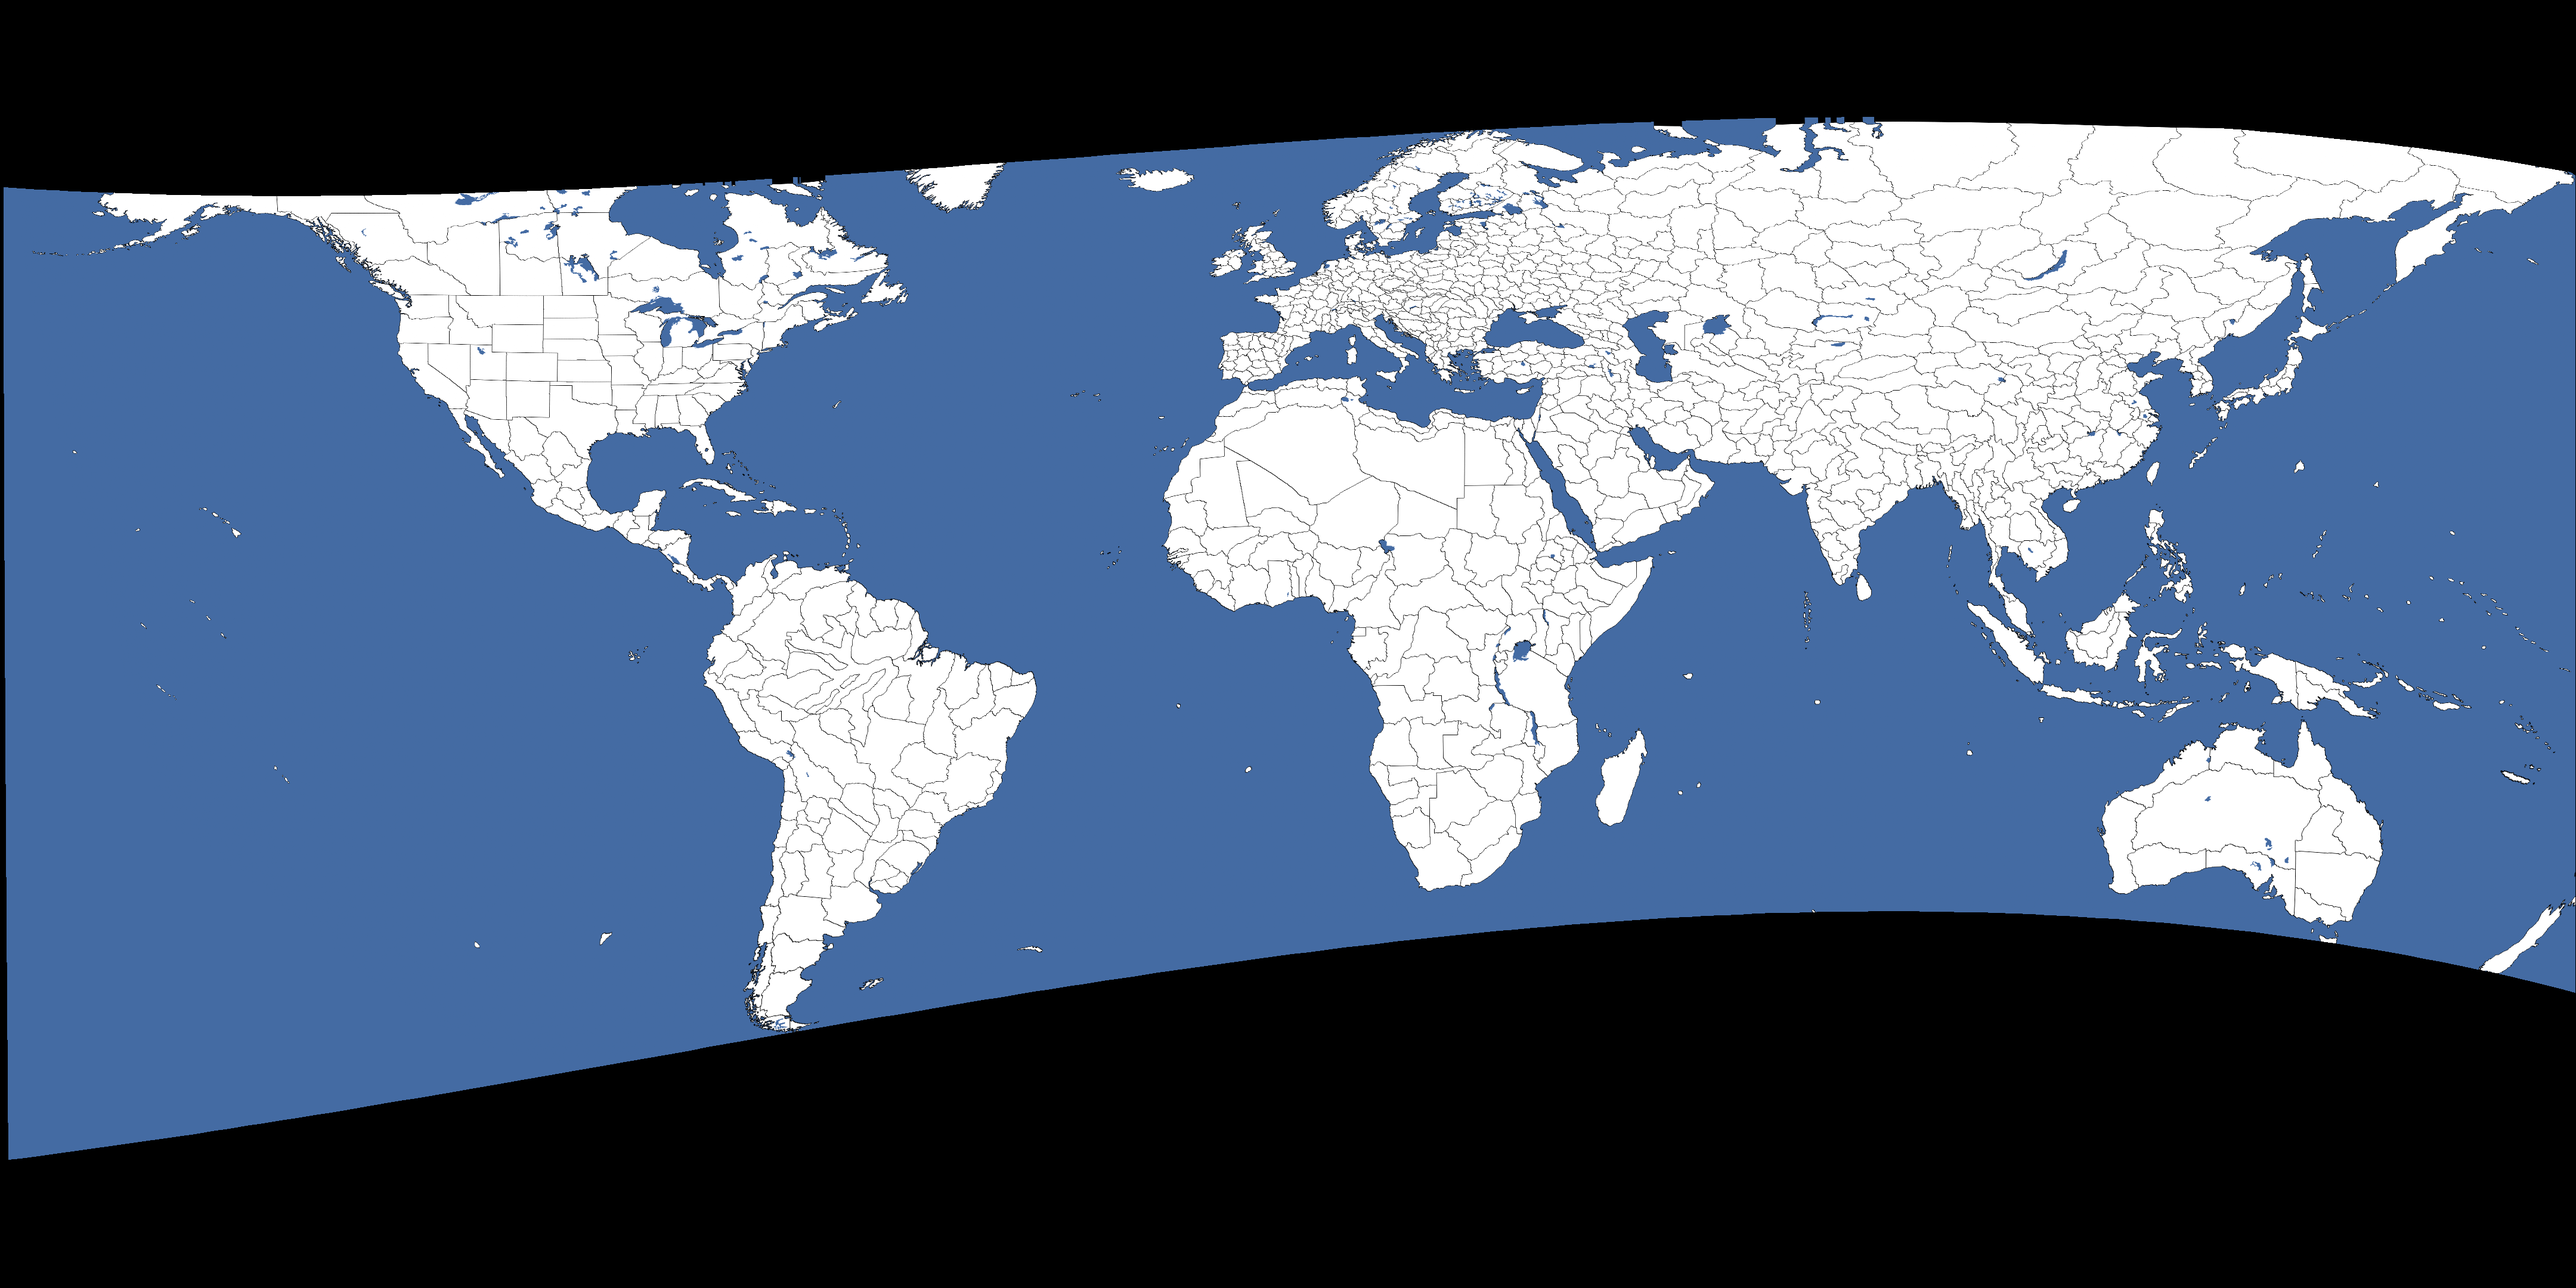
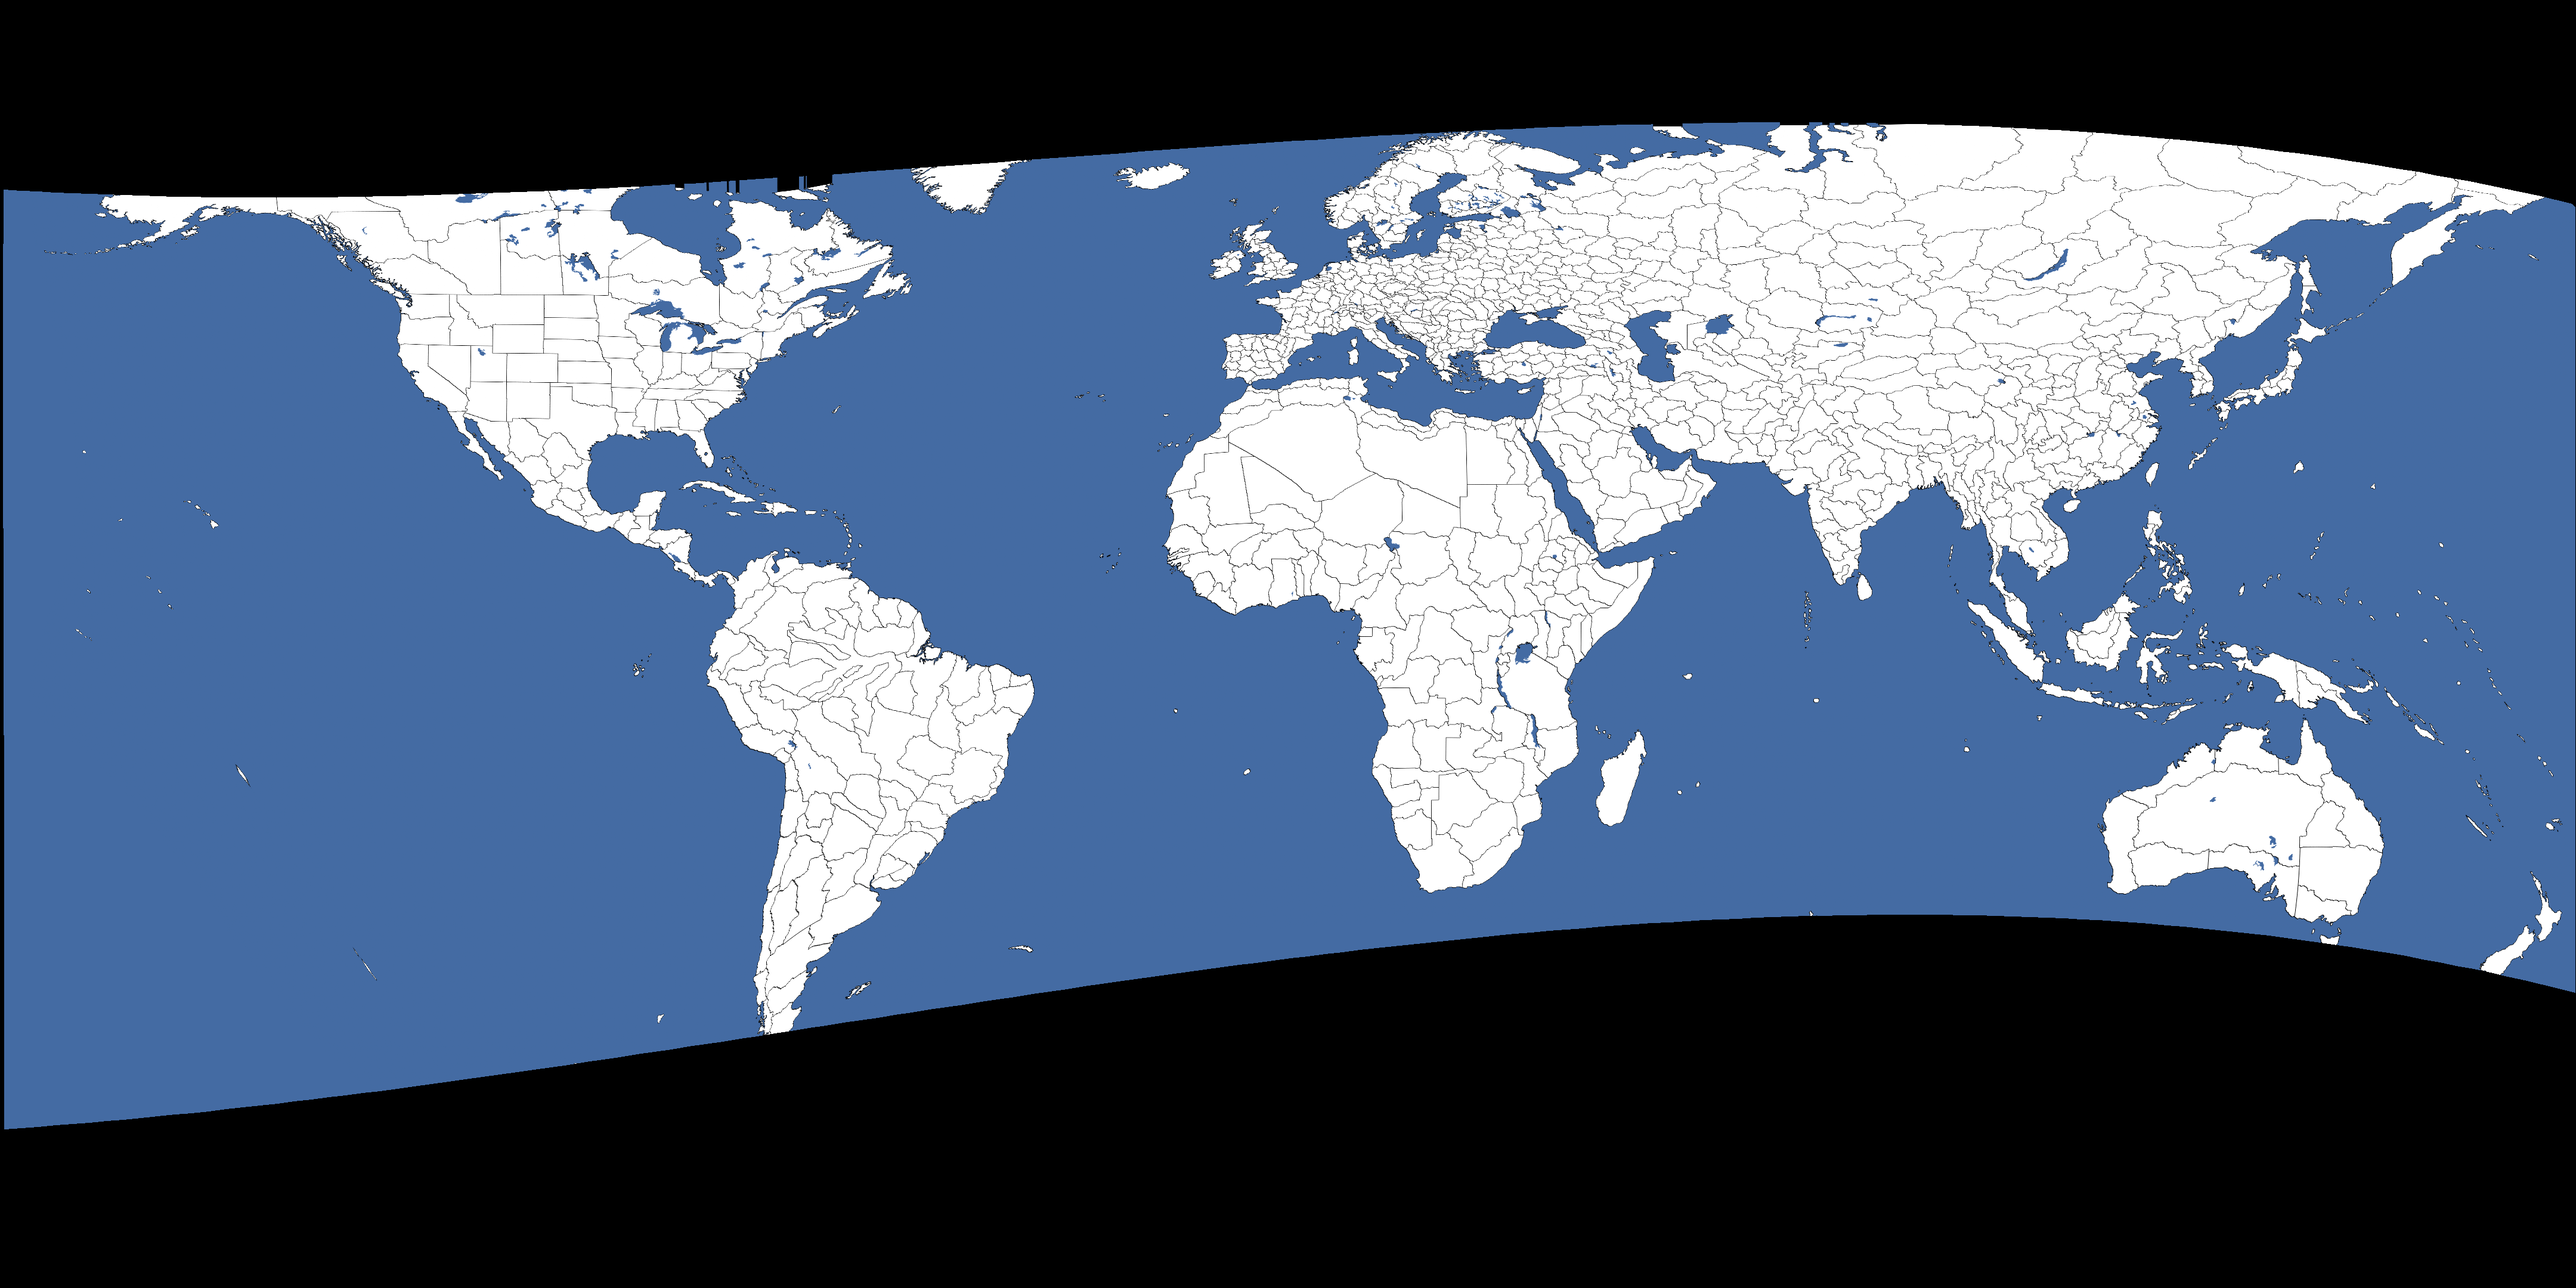
hyperweighting edges looks gooood

diff --git a/deprojector_1.2/pipeline/C_mesh_warp.py b/deprojector_1.2/pipeline/C_mesh_warp.py
@@ -280,11 +280,23 @@ def bend_loss_tps(P_src: torch.Tensor, L_inv: torch.Tensor, N: int) -> torch.Ten
     W_mat = coeffs[:N, :]
     return (W_mat ** 2).mean()
 
-def dice_loss_poly(pred: torch.Tensor, target: torch.Tensor, poly_mask: torch.Tensor, smooth: float = 1.0) -> torch.Tensor:
-    p = (pred * poly_mask).reshape(-1)
-    t = (target * poly_mask).reshape(-1)
-    inter = (p * t).sum()
-    return 1.0 - (2.0 * inter + smooth) / (p.sum() + t.sum() + smooth)
+def dice_loss_poly(
+    pred: torch.Tensor, 
+    target: torch.Tensor, 
+    poly_mask: torch.Tensor, 
+    weight_map: Optional[torch.Tensor] = None, 
+    smooth: float = 1.0
+) -> torch.Tensor:
+    w = poly_mask
+    if weight_map is not None:
+        w = w * weight_map
+        
+    p = pred.reshape(-1)
+    t = target.reshape(-1)
+    w_flat = w.reshape(-1)
+    
+    inter = (w_flat * p * t).sum()
+    return 1.0 - (2.0 * inter + smooth) / ((w_flat * p).sum() + (w_flat * t).sum() + smooth)
 
 def mse_loss_poly(
     pred: torch.Tensor, target: torch.Tensor, poly_mask: torch.Tensor, 
@@ -402,7 +414,10 @@ def sgd_point_warp_polygon_constrained(
     dyn_min_dist: int = 15,
     prune_interval: int = 150,
     edge_penalty: float = 0.0,
-    center_penalty: float = 0.0, # <--- NEW PARAMETER
+    center_penalty: float = 0.0,
+    edge_threshold: int = 8,
+    edge_weight: float = 1.0,
+    fill_weight: float = 1.0,
     show_plots: bool = True
 ) -> Tuple[np.ndarray, np.ndarray, dict, float]:
     
@@ -442,7 +457,7 @@ def sgd_point_warp_polygon_constrained(
     src_rgb_np = cv2.cvtColor(src_img, cv2.COLOR_BGR2RGB)
     src_img_t = (torch.from_numpy(src_rgb_np).float().permute(2, 0, 1).unsqueeze(0).to(device) / 255.0)
 
-    # Compute Spatial Weight Map if requested (edge and/or center penalties)
+    # Compute Spatial Weight Map for MSE if requested (edge and/or center penalties via extents)
     spatial_weight_map = None
     if edge_penalty > 0.0 or center_penalty > 0.0:
         y_grid, x_grid = torch.meshgrid(torch.arange(work_h_bbox, device=device), torch.arange(work_w_bbox, device=device), indexing='ij')
@@ -453,10 +468,23 @@ def sgd_point_warp_polygon_constrained(
         dist_from_center = torch.max(torch.abs(nx), torch.abs(ny))
         
         # Linearly scale penalty:
-        # edge_penalty is applied primarily at the edges (dist = 1)
-        # center_penalty is applied primarily at the center (dist = 0)
         e_weight = 1.0 + (edge_penalty * dist_from_center) + (center_penalty * (1.0 - dist_from_center))
         spatial_weight_map = e_weight.unsqueeze(0).unsqueeze(0).float()
+        
+    # Generate Custom Binary Weight Map for Jaccard (Dice) 
+    poly_jaccard_weight_np = np.zeros_like(poly_mask_work_np, dtype=np.float32)
+    # Strictly binary map >127 mapping to 0 or 255 purely to avoid antialiasing 
+    binary_poly = (poly_mask_work_np > 127).astype(np.uint8) * 255 
+    
+    if edge_threshold > 0:
+        # Distance transform computes exact depth of polygon pixels to the edge, completely avoiding gradient aliasing
+        dist_transform = cv2.distanceTransform(binary_poly, cv2.DIST_L2, cv2.DIST_MASK_PRECISE)
+        poly_jaccard_weight_np[dist_transform > edge_threshold] = fill_weight
+        poly_jaccard_weight_np[(dist_transform > 0) & (dist_transform <= edge_threshold)] = edge_weight
+    else:
+        poly_jaccard_weight_np[binary_poly > 0] = fill_weight
+        
+    jaccard_weight_map_t = torch.from_numpy(poly_jaccard_weight_np).float().unsqueeze(0).unsqueeze(0).to(device)
     
     # ── Phase 3: Control Point Initialization ─────────────────────
     print("\n▸ Phase 3: Initializing Control Points")
@@ -507,7 +535,7 @@ def sgd_point_warp_polygon_constrained(
             
             warped = F.grid_sample(src_mask_t, norm_grid, mode="bilinear", padding_mode="zeros", align_corners=True)
             
-            l_dice = dice_loss_poly(warped, ref_bbox_sm, poly_mask_t)
+            l_dice = dice_loss_poly(warped, ref_bbox_sm, poly_mask_t, weight_map=jaccard_weight_map_t)
             l_mse = mse_loss_poly(warped, ref_bbox_sm, poly_mask_t, weight_map=spatial_weight_map)
             
             if warp_mode == "affine":

diff --git a/deprojector_1.2/app.py b/deprojector_1.2/app.py
@@ -62,13 +62,23 @@ def executePipeline():
     # Polygon-constrained control point mesh warp optimisation
     warped_result, learned_disp, detected_bbox, final_iou = (
         sgd_point_warp_polygon_constrained(
+            # Input/Output
             show_plots=True,
             ref_img=ref_img,
             src_img=src_img,
+            
+            # Jaccard Weights (utility function)
+            edge_weight=8.0, #1.0 by default
+            edge_threshold=8, #0 for fill weights only
+            fill_weight=0.5, #0.5 by default
+            
+            # Projection Settings
             extent_result=result,
             work_h_bbox=420, #420 by default
-            warp_mode="tps",   
-            levels=3, # 3 for luck; 4 for general-purpose
+            warp_mode="tps",
+            
+            # Hyperparameters
+            levels=4, # 3 for luck; 4 for general-purpose
             steps_per_lvl=1200,    
             lr_init=4.0, #2.0; 4.0 default
             lr_gain=1.6, #0.6; 1.6 by default
